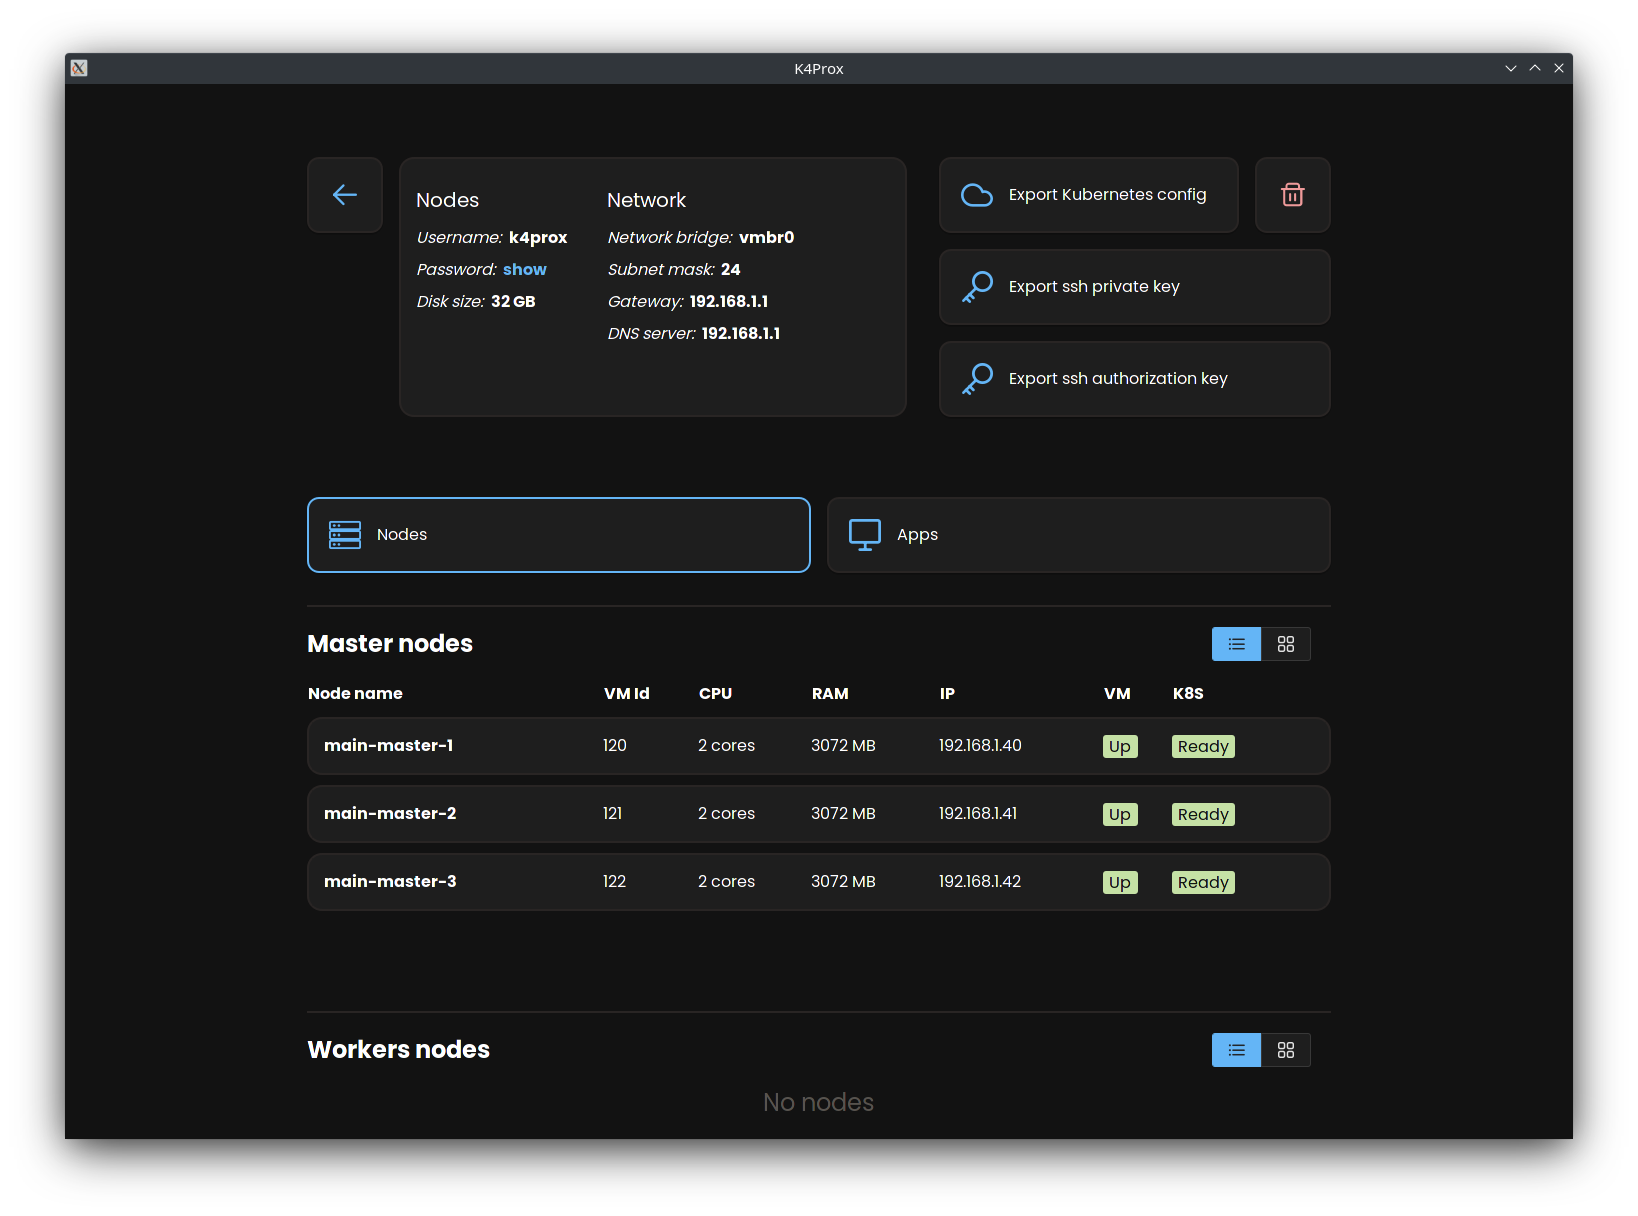
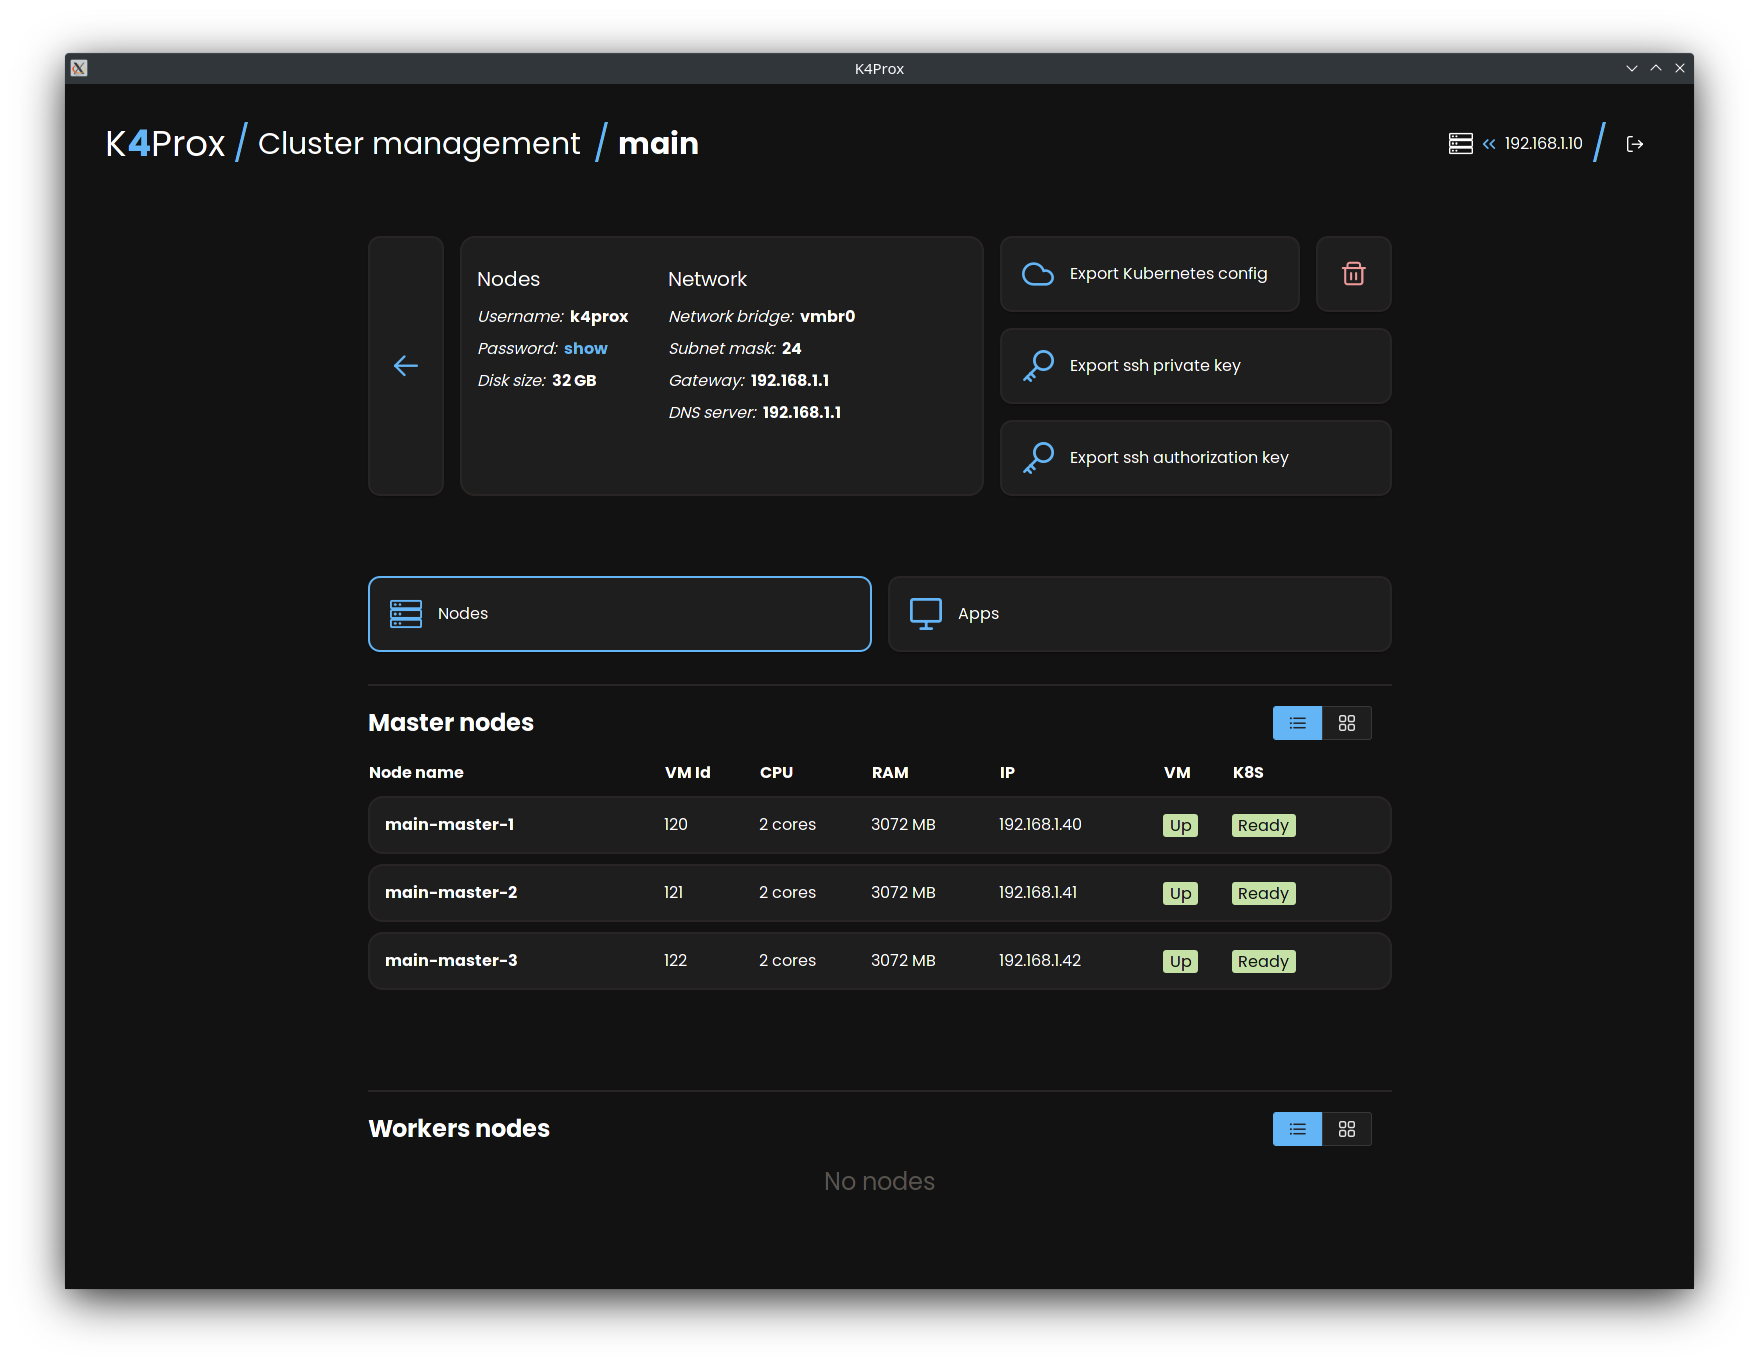
fix: Small UI improvements

diff --git a/frontend/src/views/ClusterManagement/ClusterManagementView.tsx b/frontend/src/views/ClusterManagement/ClusterManagementView.tsx
@@ -143,7 +143,7 @@ const ClusterManagementView = () => {
                             navigate("/list")
                         }}
                                tooltip="Back to cluster list"
-                               className="flex justify-center items-center w-[76px] h-[76px]">
+                               className="flex justify-center items-center w-[76px] h-[260px]">
                             <i className="pi pi-arrow-left primary-text-color" style={{fontSize: "1.5rem"}}></i>
                         </Block>
                     </div>
@@ -192,7 +192,7 @@ const ClusterManagementView = () => {
                             </div>
                         </div>
                     </Panel>
-                    <div className="flex flex-col ml-4">
+                    <div className="flex flex-col">
                         <div className="flex">
                             <Block onClick={onSaveKubeConfig}
                                    className="mb-4 flex justify-start items-center w-[300px] mr-4">

diff --git a/frontend/src/views/ClusterWizard/ClusterWizardView.tsx b/frontend/src/views/ClusterWizard/ClusterWizardView.tsx
@@ -15,7 +15,6 @@ import Header from "@/components/Header";
 import GeneralSettingsStep from "@/views/ClusterWizard/Steps/GeneralSettingsStep";
 import React from 'react';
 import { ClusterWizardStore } from "@/store/clusterWizardStore";
-import { useNavigate } from "react-router-dom";
 
 export type WizardNavigationContextType = {
     goPrevious: () => void;
@@ -33,7 +32,6 @@ const steps = [
 ];
 
 const ClusterWizardView = () => {
-    const navigate = useNavigate()
     const [activeIndex, setActiveIndex] = useState(0);
     const [selectedProvisioningSteps, setSelectedProvisioningSteps] = useState({
         createVirtualMachines: true,
